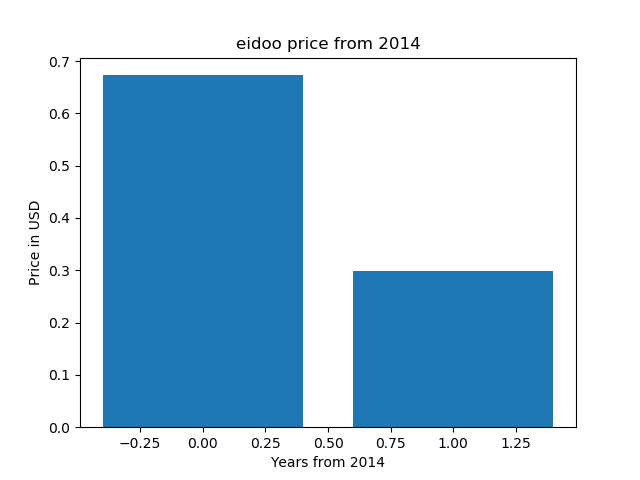
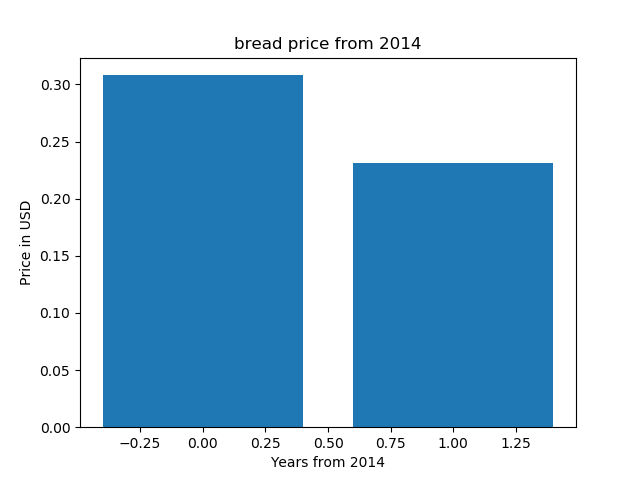
first commit

diff --git a/example.py b/example.py
@@ -10,7 +10,7 @@ from time import gmtime, strftime
 import matplotlib.pyplot as plt
 
 enddate = strftime("%Y%m%d", gmtime())
-r  = requests.get("https://coinmarketcap.com/currencies/eidoo/historical-data/?start=20140101&end={0}".format(enddate))
+r  = requests.get("https://coinmarketcap.com/currencies/bread/historical-data/?start=20140101&end={0}".format(enddate))
 data = r.text
 
 soup = BeautifulSoup(data, "html.parser")
@@ -44,7 +44,7 @@ print(x)
 
 x = list(range(0, len(prices)))
 
-plt.title('eidoo price from 2014')
+plt.title('bread price from 2014')
 plt.ylabel('Price in USD')
 plt.xlabel('Years from 2014')
 plt.bar(x, prices)

diff --git a/README.md b/README.md
@@ -1,6 +1,6 @@
-# eidoo price chart 
+# bread price chart 
 
-eidoo price chart (matplotlib, python)
+bread price chart (matplotlib, python)
 
 https://pythonprogramminglanguage.com
 
